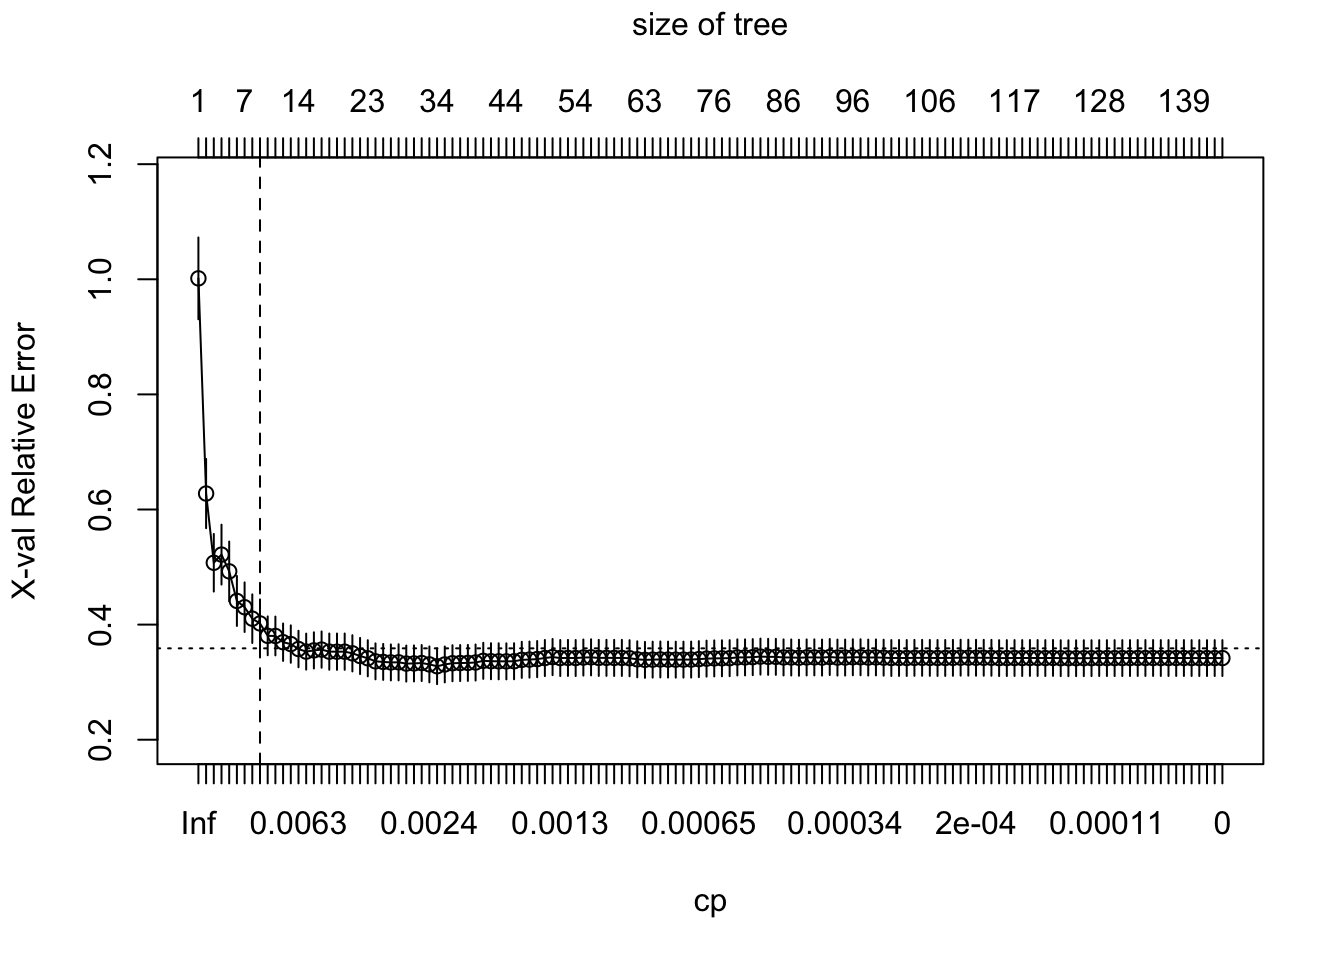
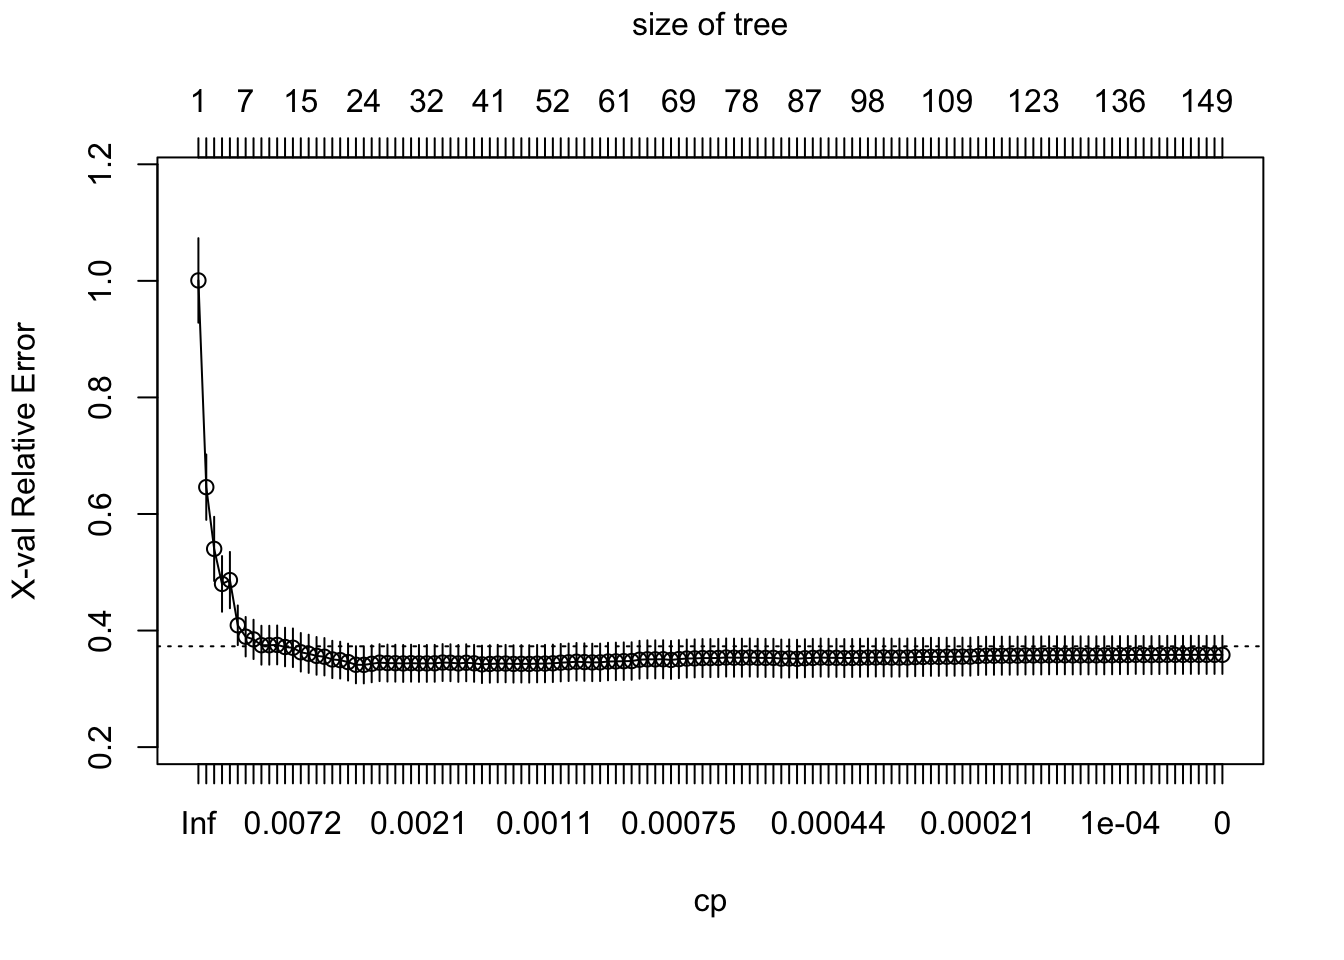
change-text-ml

diff --git a/_book/machine-learning.html b/_book/machine-learning.html
@@ -524,17 +524,15 @@ window.Quarto = {
 </div>
 </div>
 </div>
-<p>As we can see, <code>rpart()</code> produces a decision tree with 9 leaf nodes and the conditions to reach each leaf are associated with only 6 demographic variables. However, in the original training set, there were many more demographic variables that have not been included in the model. The reason for this is that, behind the scenes, <code>rpart()</code> is trying to find a balance between the complexity of the tree (i.e.&nbsp;its depth) and the generalisability of the tree to predict new unseen data. If it is too deep, the tree runs the risk of overfitting the training data and failing to predict the median monthly rent price for other MSOAs that are not included in the training set.</p>
-<p>To illustrate the point of selecting a tree with 9 leaves, we can manually control the level of complexity allowed when fitting of a decision tree model. The lower we set the value of the parameter <code>cp</code>, the more complex the resulting tree will be, so <code>cp</code> can be regarded as penalty for the level of complexity or a cost complexity parameter. Below, we fit a decision tree with no penalty for generating a complex tree model, i.e.&nbsp;<code>cp=0</code>, and then we use the function <code>plotcp()</code> to plot the prediction error (<a href="https://en.wikipedia.org/wiki/PRESS_statistic">PRESS statistic</a>) that would be achieved with decision trees of different levels of complexity.</p>
+<p>As we can see, <code>rpart()</code> produces a decision tree with a number of leaf nodes and the conditions to reach each leaf are associated with only a few demographic variables. However, in the original training set, there were many more demographic variables that have not been included in the model. The reason for this is that, behind the scenes, <code>rpart()</code> is trying to find a balance between the complexity of the tree (i.e.&nbsp;its depth) and the generalisability of the tree to predict new unseen data. If it is too deep, the tree runs the risk of overfitting the training data and failing to predict the median monthly rent price for other MSOAs that are not included in the training set.</p>
+<p>To illustrate the point of selecting a tree with the obtained number of leaves leaves, we can manually control the level of complexity allowed when fitting of a decision tree model. The lower we set the value of the parameter <code>cp</code>, the more complex the resulting tree will be, so <code>cp</code> can be regarded as penalty for the level of complexity or a cost complexity parameter. Below, we fit a decision tree with no penalty for generating a complex tree model, i.e.&nbsp;<code>cp=0</code>, and then we use the function <code>plotcp()</code> to plot the prediction error (<a href="https://en.wikipedia.org/wiki/PRESS_statistic">PRESS statistic</a>) that would be achieved with decision trees of different levels of complexity.</p>
 <div class="cell">
 <div class="sourceCode cell-code" id="cb16"><pre class="sourceCode r code-with-copy"><code class="sourceCode r"><span id="cb16-1"><a href="#cb16-1" aria-hidden="true" tabindex="-1"></a><span class="co"># set seed for reproducibility</span></span>
 <span id="cb16-2"><a href="#cb16-2" aria-hidden="true" tabindex="-1"></a><span class="fu">set.seed</span>(<span class="dv">123</span>)</span>
 <span id="cb16-3"><a href="#cb16-3" aria-hidden="true" tabindex="-1"></a><span class="co"># train model</span></span>
 <span id="cb16-4"><a href="#cb16-4" aria-hidden="true" tabindex="-1"></a>fit2 <span class="ot">&lt;-</span> <span class="fu">rpart</span>(<span class="fu">as.numeric</span>(median_rent_per_month) <span class="sc">~</span>., <span class="at">data =</span> df_train, <span class="at">method =</span> <span class="st">'anova'</span>, <span class="at">control =</span> <span class="fu">list</span>(<span class="at">cp =</span> <span class="dv">0</span>))</span>
 <span id="cb16-5"><a href="#cb16-5" aria-hidden="true" tabindex="-1"></a><span class="co"># plot error vs tree complexity </span></span>
-<span id="cb16-6"><a href="#cb16-6" aria-hidden="true" tabindex="-1"></a><span class="fu">plotcp</span>(fit2)</span>
-<span id="cb16-7"><a href="#cb16-7" aria-hidden="true" tabindex="-1"></a><span class="co"># draw vertical line at 11 trees</span></span>
-<span id="cb16-8"><a href="#cb16-8" aria-hidden="true" tabindex="-1"></a><span class="fu">abline</span>(<span class="at">v=</span><span class="dv">9</span>, <span class="at">lty=</span><span class="st">'dashed'</span>)</span></code><button title="Copy to Clipboard" class="code-copy-button"><i class="bi"></i></button></pre></div>
+<span id="cb16-6"><a href="#cb16-6" aria-hidden="true" tabindex="-1"></a><span class="fu">plotcp</span>(fit2)</span></code><button title="Copy to Clipboard" class="code-copy-button"><i class="bi"></i></button></pre></div>
 <div class="cell-output-display">
 <div>
 <figure class="figure">
@@ -543,7 +541,7 @@ window.Quarto = {
 </div>
 </div>
 </div>
-<p>As we can see from the plot above, with more than 9 leaves, little reduction in the prediction error is achieved as the model becomes more and more complex. In other words, we start seeing diminishing returns in error reduction as the tree grows deeper. Hence <code>rpart()</code> is doing some behind-the-scenes tuning by pruning the tree so it only has 9 leaf nodes.</p>
+<p>As we can see from the plot above, with more than a certain number of leaves, little reduction in the prediction error is achieved as the model becomes more and more complex. In other words, we start seeing diminishing returns in error reduction as the tree grows deeper. Hence <code>rpart()</code> is doing some behind-the-scenes tuning by pruning the tree so it only has the obtained number of leaf nodes.</p>
 <p>There are other model parameters that can be tuned in order to improve the model performance via the control argument of the <code>rpart()</code> function, just like we did above for <code>cp</code>. While we do not experiment with these additional parameters in the workbook, we provide brief descriptions below so you can explore them on your own time:</p>
 <ul>
 <li><p><code>minsplit</code> controls the minimum number of data points required in each leaf node. The default is 20. Setting this lower will result in more leaves with very few data points belonging to the corresponding branch.</p></li>
@@ -562,14 +560,14 @@ window.Quarto = {
 <div class="cell">
 <div class="sourceCode cell-code" id="cb18"><pre class="sourceCode r code-with-copy"><code class="sourceCode r"><span id="cb18-1"><a href="#cb18-1" aria-hidden="true" tabindex="-1"></a><span class="fu">rmse</span>(predict_unseen, df_test<span class="sc">$</span>median_rent_per_month)</span></code><button title="Copy to Clipboard" class="code-copy-button"><i class="bi"></i></button></pre></div>
 <div class="cell-output cell-output-stdout">
-<pre><code>[1] 286.1798</code></pre>
+<pre><code>[1] 291.0097</code></pre>
 </div>
 </div>
 <p>This value does not have much meaning in isolation. A good or bad RMSE is always relative to the specific data set. For this reason, we need to establish a baseline RMSE that we can compare it with. Here we establish this baseline as the RMSE that would be obtained from a naive tree that merely predicts the median monthly rent across all the data entries in the training set. If the fitted model achieves an RSME lower than the naive model, we say that the fitted model “has skill”. The following line of code confirms that our fitted model is better than the naive model.</p>
 <div class="cell">
 <div class="sourceCode cell-code" id="cb20"><pre class="sourceCode r code-with-copy"><code class="sourceCode r"><span id="cb20-1"><a href="#cb20-1" aria-hidden="true" tabindex="-1"></a><span class="fu">rmse</span>(predict_unseen, <span class="fu">mean</span>(df_train<span class="sc">$</span>median_rent_per_month))</span></code><button title="Copy to Clipboard" class="code-copy-button"><i class="bi"></i></button></pre></div>
 <div class="cell-output cell-output-stdout">
-<pre><code>[1] 414.4566</code></pre>
+<pre><code>[1] 432.5357</code></pre>
 </div>
 </div>
 </section>
@@ -601,11 +599,11 @@ window.Quarto = {
 
 No pre-processing
 Resampling: Cross-Validated (10 fold) 
-Summary of sample sizes: 1579, 1578, 1579, 1580, 1579, 1580, ... 
+Summary of sample sizes: 1578, 1578, 1577, 1581, 1579, 1581, ... 
 Resampling results:
 
-  RMSE      Rsquared   MAE     
-  259.6851  0.7194196  177.2139</code></pre>
+  RMSE      Rsquared   MAE    
+  257.3835  0.7170825  175.319</code></pre>
 </div>
 </div>
 <p>We see that the cross-validated value of RMSE with bagging is lower than that associated with the single decision tree that we trained with <code>rcart</code>. This indicates that the predictive performance is estimated to be better. We can compare the cross-validated value of the RMSE with the RMSE from the test set. These two quantities should be close:</p>
@@ -613,7 +611,7 @@ Resampling results:
 <div class="sourceCode cell-code" id="cb24"><pre class="sourceCode r code-with-copy"><code class="sourceCode r"><span id="cb24-1"><a href="#cb24-1" aria-hidden="true" tabindex="-1"></a>predict_bagged_unseen <span class="ot">&lt;-</span> <span class="fu">predict</span>(bagged, df_test)</span>
 <span id="cb24-2"><a href="#cb24-2" aria-hidden="true" tabindex="-1"></a><span class="fu">rmse</span>(predict_bagged_unseen, df_test<span class="sc">$</span>median_rent_per_month)</span></code><button title="Copy to Clipboard" class="code-copy-button"><i class="bi"></i></button></pre></div>
 <div class="cell-output cell-output-stdout">
-<pre><code>[1] 230.1622</code></pre>
+<pre><code>[1] 255.4262</code></pre>
 </div>
 </div>
 <p>The library <code>caret</code> has an additional function <code>varImp()</code> that helps us understand the variable importance across the bagged trees, i.e.&nbsp;the variables that are most relevant to determine the predictions of MSOA median rent per month. You are encouraged to check the <code>caret</code> documentation to learn more about how the variable importance is determined. We can plot a rank of variable importance by running the code below.</p>
@@ -656,8 +654,8 @@ Call:
                      Number of trees: 500
 No. of variables tried at each split: 16
 
-          Mean of squared residuals: 50278.4
-                    % Var explained: 78.72</code></pre>
+          Mean of squared residuals: 50342.21
+                    % Var explained: 78.36</code></pre>
 </div>
 </div>
 <p>As we can see from above, the mean of squared residuals, which is the same as the MSE, is around 48,561 (you might get a slightly different number due to randomness in the algorithm) for 500 trees and therefore, RMSE = 220. This metric is computed by averaging residuals from the OOB samples. To illustrate how the MSE varies as more bootstrap samples are added to the model, we can plot the fitted model:</p>
@@ -675,14 +673,14 @@ No. of variables tried at each split: 16
 <div class="cell">
 <div class="sourceCode cell-code" id="cb30"><pre class="sourceCode r code-with-copy"><code class="sourceCode r"><span id="cb30-1"><a href="#cb30-1" aria-hidden="true" tabindex="-1"></a><span class="fu">which.min</span>(fit_rf<span class="sc">$</span>mse)</span></code><button title="Copy to Clipboard" class="code-copy-button"><i class="bi"></i></button></pre></div>
 <div class="cell-output cell-output-stdout">
-<pre><code>[1] 294</code></pre>
+<pre><code>[1] 354</code></pre>
 </div>
 </div>
 <p>By computing the RMSE, we can compare the performance of this model with performance of the models in the previous sections:</p>
 <div class="cell">
 <div class="sourceCode cell-code" id="cb32"><pre class="sourceCode r code-with-copy"><code class="sourceCode r"><span id="cb32-1"><a href="#cb32-1" aria-hidden="true" tabindex="-1"></a><span class="fu">sqrt</span>(fit_rf<span class="sc">$</span>mse[<span class="fu">which.min</span>(fit_rf<span class="sc">$</span>mse)])</span></code><button title="Copy to Clipboard" class="code-copy-button"><i class="bi"></i></button></pre></div>
 <div class="cell-output cell-output-stdout">
-<pre><code>[1] 223.2337</code></pre>
+<pre><code>[1] 223.8975</code></pre>
 </div>
 </div>
 <p>This is a lower value than what we obtained with just a single tree and even after applying bagging! Remember, this RMSE is based on the OOB samples, but we could also obtain it from the test set. <code>randomForest()</code> allows us to easily compare the RMSE obtained from OOB data and from the test set.</p>
@@ -760,7 +758,7 @@ No. of variables tried at each split: 16
 <div class="sourceCode cell-code" id="cb38"><pre class="sourceCode r code-with-copy"><code class="sourceCode r"><span id="cb38-1"><a href="#cb38-1" aria-hidden="true" tabindex="-1"></a>hyper_grid[<span class="fu">which.min</span>(hyper_grid<span class="sc">$</span>OOB_RMSE),]</span></code><button title="Copy to Clipboard" class="code-copy-button"><i class="bi"></i></button></pre></div>
 <div class="cell-output cell-output-stdout">
 <pre><code>   mtry sample.fraction min.node.size OOB_RMSE
-52   16            0.75             5 224.2104</code></pre>
+30   20             0.8             3 222.3484</code></pre>
 </div>
 </div>
 <p>The OOB RMSE is even lower than the error we obtained with the default model for random forest with no tuning.</p>
@@ -804,7 +802,7 @@ Projected CRS: OSGB36 / British National Grid</code></pre>
 <span id="cb44-4"><a href="#cb44-4" aria-hidden="true" tabindex="-1"></a>})</span></code><button title="Copy to Clipboard" class="code-copy-button"><i class="bi"></i></button></pre></div>
 <div class="cell-output cell-output-stdout">
 <pre><code>   user  system elapsed 
- 96.071  11.207 109.348 </code></pre>
+ 90.667  11.259 103.811 </code></pre>
 </div>
 </div>
 <div class="cell">
